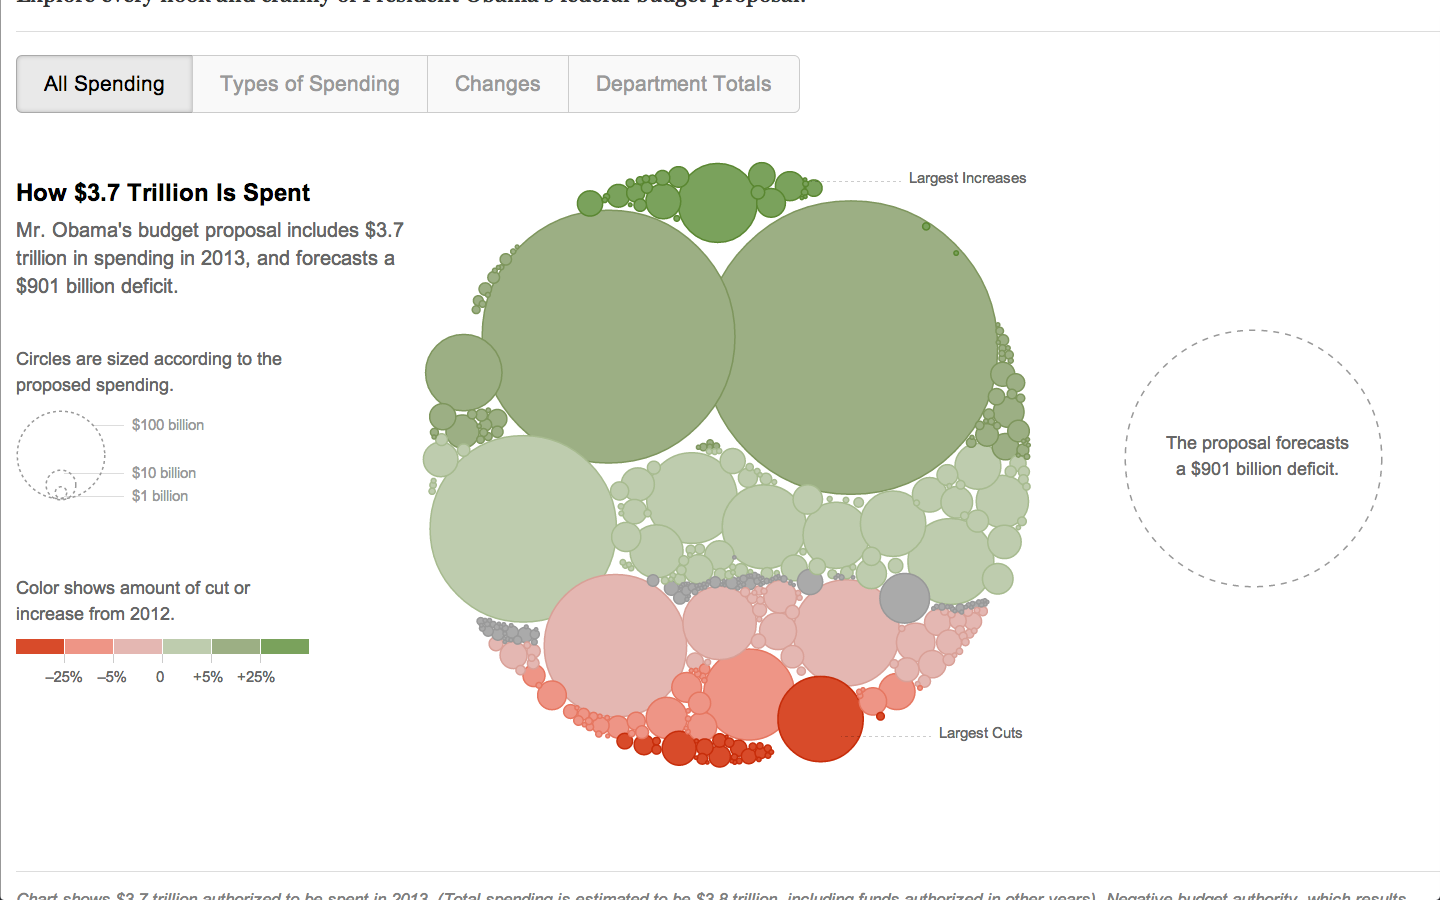
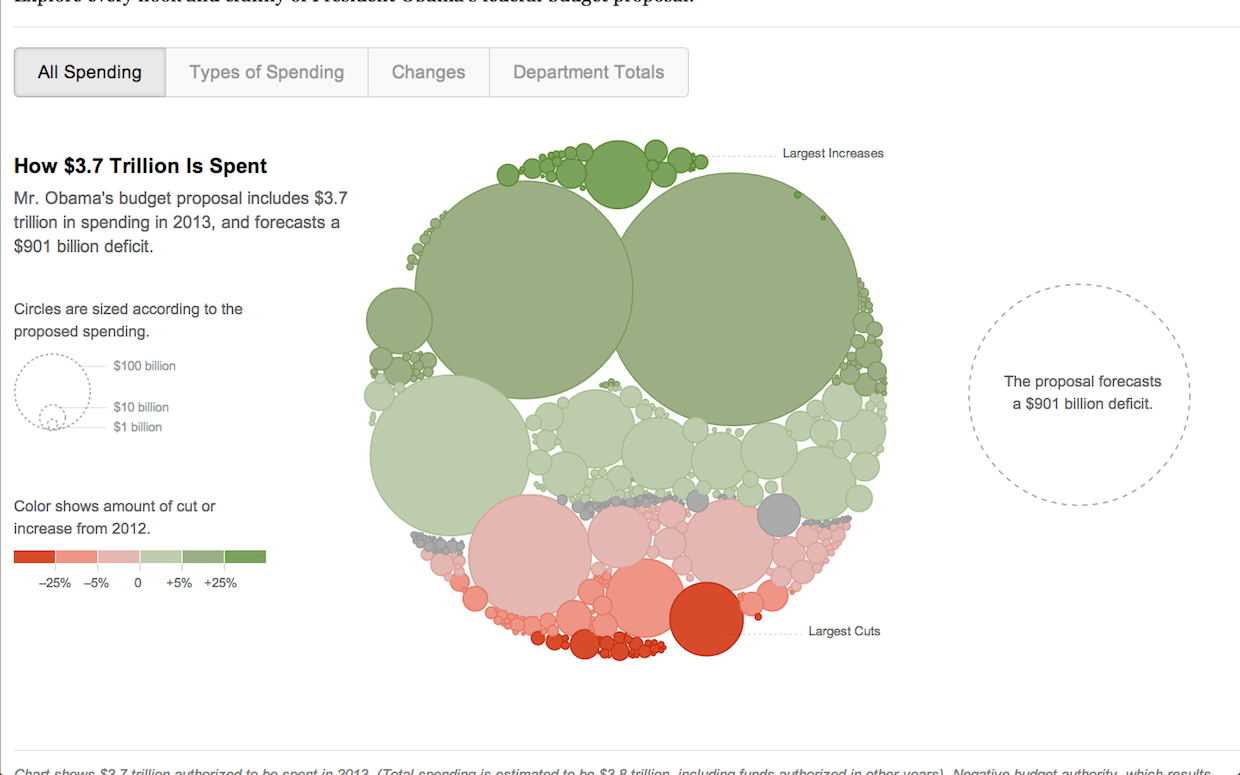
start on 1024x768

diff --git a/slides/simple_bubbles_custom_force_alpha.html b/slides/simple_bubbles_custom_force_alpha.html
@@ -31,8 +31,8 @@ line.link {
     <script type="text/javascript" src="../js/slide.js"></script>
     <script type="text/javascript">
 
-var w = 1280,
-    h = 800,
+var w = 1024,
+    h = 740,
     nodes = [],
     links = [],
     node, 
@@ -42,7 +42,7 @@ function charge(d) {
   return -Math.pow(d.size, 2.0) / 7;
 }
 
-var centers = {left: {x:300, y:400}, right: {x:900, y:400}};
+var centers = {left: {x:300, y:400}, right: {x:700, y:400}};
 
 var centering = false;
 
@@ -54,8 +54,8 @@ var centering = false;
   .on("tick", tick)
   .charge(charge);
 
-nodes.push({size:30, category:'left'}, {size:30, category:'left'}, {size:30, category: 'left'});
-nodes.push({size:10, category:'right'}, {size:10, category: 'right'}, {size:10, category: 'right'});
+nodes.push({size:30, category:'right'}, {size:30, category:'left'}, {size:30, category: 'left'});
+nodes.push({size:10, category:'right'}, {size:10, category: 'right'}, {size:10, category: 'left'});
 nodes.push({size:100, category: 'right'}, {size:30, category: 'left'}, {size:10, category: 'left'});
 
   /* .charge(function(d) { return d._children ? -d.size / 100 : -30; }) */

diff --git a/slides/force_code_with_tick_function_centers_alpha.html b/slides/force_code_with_tick_function_centers_alpha.html
@@ -26,25 +26,23 @@
   <body>
     <h2></h2>
     <pre>
-      <code class="javascript">
-var category_centers = {
+      <code class="javascript small">
+var categoryCenters = {
   left: {x: 300, y: 400},
   right: {x: 900, y: 400}
 };
 
 // called for every force 'tick'
 function tick(e) {
-
-  var alpha = e.alpha;
-  node.each(mess_with_node_position(alpha));
+  node.each(moveTowardCategoryCenter(e.alpha));
 
   node.attr("cx", function(d) { return d.x; })
       .attr("cy", function(d) { return d.y; });
 }
 
-function mess_with_node_position(alpha) {
+function moveTowardCategoryCenter(alpha) {
   return function(d) {
-    var center = category_centers[d.category];
+    var center = categoryCenters[d.category];
 
     d.x = d.x + (center.x - d.x) * 0.1 * alpha;
     d.y = d.y + (center.y - d.y) * 0.1 * alpha;

diff --git a/slides/force_code_with_tick_function_centers.html b/slides/force_code_with_tick_function_centers.html
@@ -13,24 +13,23 @@
   <body>
     <h2></h2>
     <pre>
-      <code class="javascript">
-var category_centers = {
+      <code class="javascript small">
+var categoryCenters = {
   left: {x: 300, y: 400},
   right: {x: 900, y: 400}
 };
 
 // called for every force 'tick'
 function tick() {
-
-  node.each(move_toward_category_center());
+  node.each(moveTowardCategoryCenter());
 
   node.attr("cx", function(d) { return d.x; })
       .attr("cy", function(d) { return d.y; });
 }
 
-function move_toward_category_center() {
+function moveTowardCategoryCenter() {
   return function(d) {
-    var center = category_centers[d.category];
+    var center = categoryCenters[d.category];
 
     d.x = d.x + (center.x - d.x) * 0.1;
     d.y = d.y + (center.y - d.y) * 0.1;

diff --git a/css/style.css b/css/style.css
@@ -1,10 +1,10 @@
 body {
   font: 300 36px "Helvetica Neue";
   height: 640px;
-  margin: 80px 160px 80px 160px;
+  margin: 60px 120px 60px 120px;
   overflow: hidden;
   position: relative;
-  width: 960px;
+  width: 860px;
 }
 
 a:link, a:visited {
@@ -19,6 +19,7 @@ a:hover {
 blockquote {
   margin: 0;
   margin-top: 20%;
+  width: 75%;
   /* margin-top: 10px; */
   margin-bottom: 10px;
   margin-left: 50px;
@@ -109,7 +110,7 @@ h3 {
 
 body > svg {
   position: absolute;
-  top: -80px;
+  top: -60px;
   left: -160px;
 }
 
@@ -132,4 +133,12 @@ body > svg {
 
 #code {
   display: none;
+}
+
+code.medium {
+  font-size: 80%;
+}
+
+code.small {
+  font-size: 70%;
 }

diff --git a/slides/bubble_chart_code_charge_function.html b/slides/bubble_chart_code_charge_function.html
@@ -29,15 +29,15 @@
     <h2>Set Radius</h2>
     <pre>
       <code class="javascript" style="font-size: 85%;">
-      var force = d3.layout.force()
-        .nodes(nodes)
-        .size([width, height])
-        .on("tick", tick)
-        .charge(charge);
+var force = d3.layout.force()
+  .nodes(nodes)
+  .size([width, height])
+  .on("tick", tick)
+  .charge(charge);
 
-     function charge(d) {
-       return -Math.pow(d.amount, 2.0) / 4;
-     }
+function charge(d) {
+  return -Math.pow(d.amount, 2.0) / 4;
+}
       
       </code>
     </pre>

diff --git a/slides/force_code_with_tick_function.html b/slides/force_code_with_tick_function.html
@@ -13,17 +13,17 @@
   <body>
     <h2></h2>
     <pre>
-      <code class="javascript">
+      <code class="javascript medium">
 // called for every force 'tick'
 function tick() {
 
-  node.each(mess_with_node_position(params));
+  node.each(messWithNodePosition(params));
 
   node.attr("cx", function(d) { return d.x; })
       .attr("cy", function(d) { return d.y; });
 }
 
-function mess_with_node_position(params) {
+function messWithNodePosition(params) {
   return function(d) {
     d.x += // modify x pos
     d.y += // modify y pos

diff --git a/slides/nodes_array_code.html b/slides/nodes_array_code.html
@@ -9,7 +9,7 @@
     <script type="text/javascript" src="../js/jquery.highlight.js"></script>
     <script>hljs.initHighlightingOnLoad();</script>
     <script type="text/javascript">
-      var substeps = ['highlight'];
+      var substeps = [];
 
       function step(cur_step) {
         if(cur_step == 'highlight') {
@@ -24,7 +24,7 @@
     <script type="text/javascript" src="../js/slide.js"></script>
   </head>
   <body>
-    <h2>Force Code</h2>
+    <h2>Nodes Data</h2>
     <pre>
       <code class="javascript">
       var nodes = [

diff --git a/slides/bubble_chart_code_one.html b/slides/bubble_chart_code_one.html
@@ -26,10 +26,12 @@
   <body>
     <h2>Set Radius</h2>
     <pre>
-      <code class="javascript" style="font-size: 85%;">
-var node = svg.selectAll("circle")
-  .data(nodes).enter()
-  .attr("fill", "steelblue")
+      <code class="javascript" style="font-size: 75%;">
+node = vis.selectAll("circle.node")
+  .data(nodes)
+  .enter().append("circle")
+  .attr("class", "node")
+  .style("fill", "steelblue");
   .attr("r", function(d) { return rScale(d.amount); });
       </code>
     </pre>

diff --git a/css/present.css b/css/present.css
@@ -1,8 +1,8 @@
 body {
   background: #fff;
   position: relative;
-  width: 1280px;
-  height: 800px;
+  width: 1024px;
+  height: 768px;
   margin: auto;
   overflow: hidden;
 }
@@ -10,8 +10,8 @@ body {
 iframe {
   border: none;
   position: absolute;
-  width: 1280px;
-  height: 800px;
+  width: 1024px;
+  height: 768px;
   background: #fff;
   -moz-transition-property: -moz-transform, opacity;
   -moz-transition-duration: 500ms;

diff --git a/slides/nyt_bubble_chart.html b/slides/nyt_bubble_chart.html
@@ -8,9 +8,9 @@
     <style type="text/css">
       body {
         background-color: #f6f2ec;
-        background-image: url('../img/nyt_bubble_chart_big.png');
+        background-image: url('../img/nyt_bubbles_1024x768.png');
         background-repeat: no-repeat;
-        /* background-size: 100% 100%; */
+        background-size: 100% 100%;
         /* background-size: 1280px 800px; */
       }
     </style>

diff --git a/slides/collision.html b/slides/collision.html
@@ -21,8 +21,8 @@ circle {
     </div>
     <script type="text/javascript">
 
-var w = 1280,
-    h = 800;
+var w = 1024,
+    h = 740;
 
 var nodes = d3.range(200).map(function() { return {radius: Math.random() * 12 + 4}; }),
     color = d3.scale.category10();

diff --git a/slides/force_code_two.html b/slides/force_code_two.html
@@ -13,7 +13,7 @@
   <body>
     <h2>Tick Function</h2>
     <pre>
-      <code class="javascript">
+      <code class="javascript medium">
 // called for every force 'tick'
 function tick() {
   node.attr("cx", function(d) { return d.x; })
